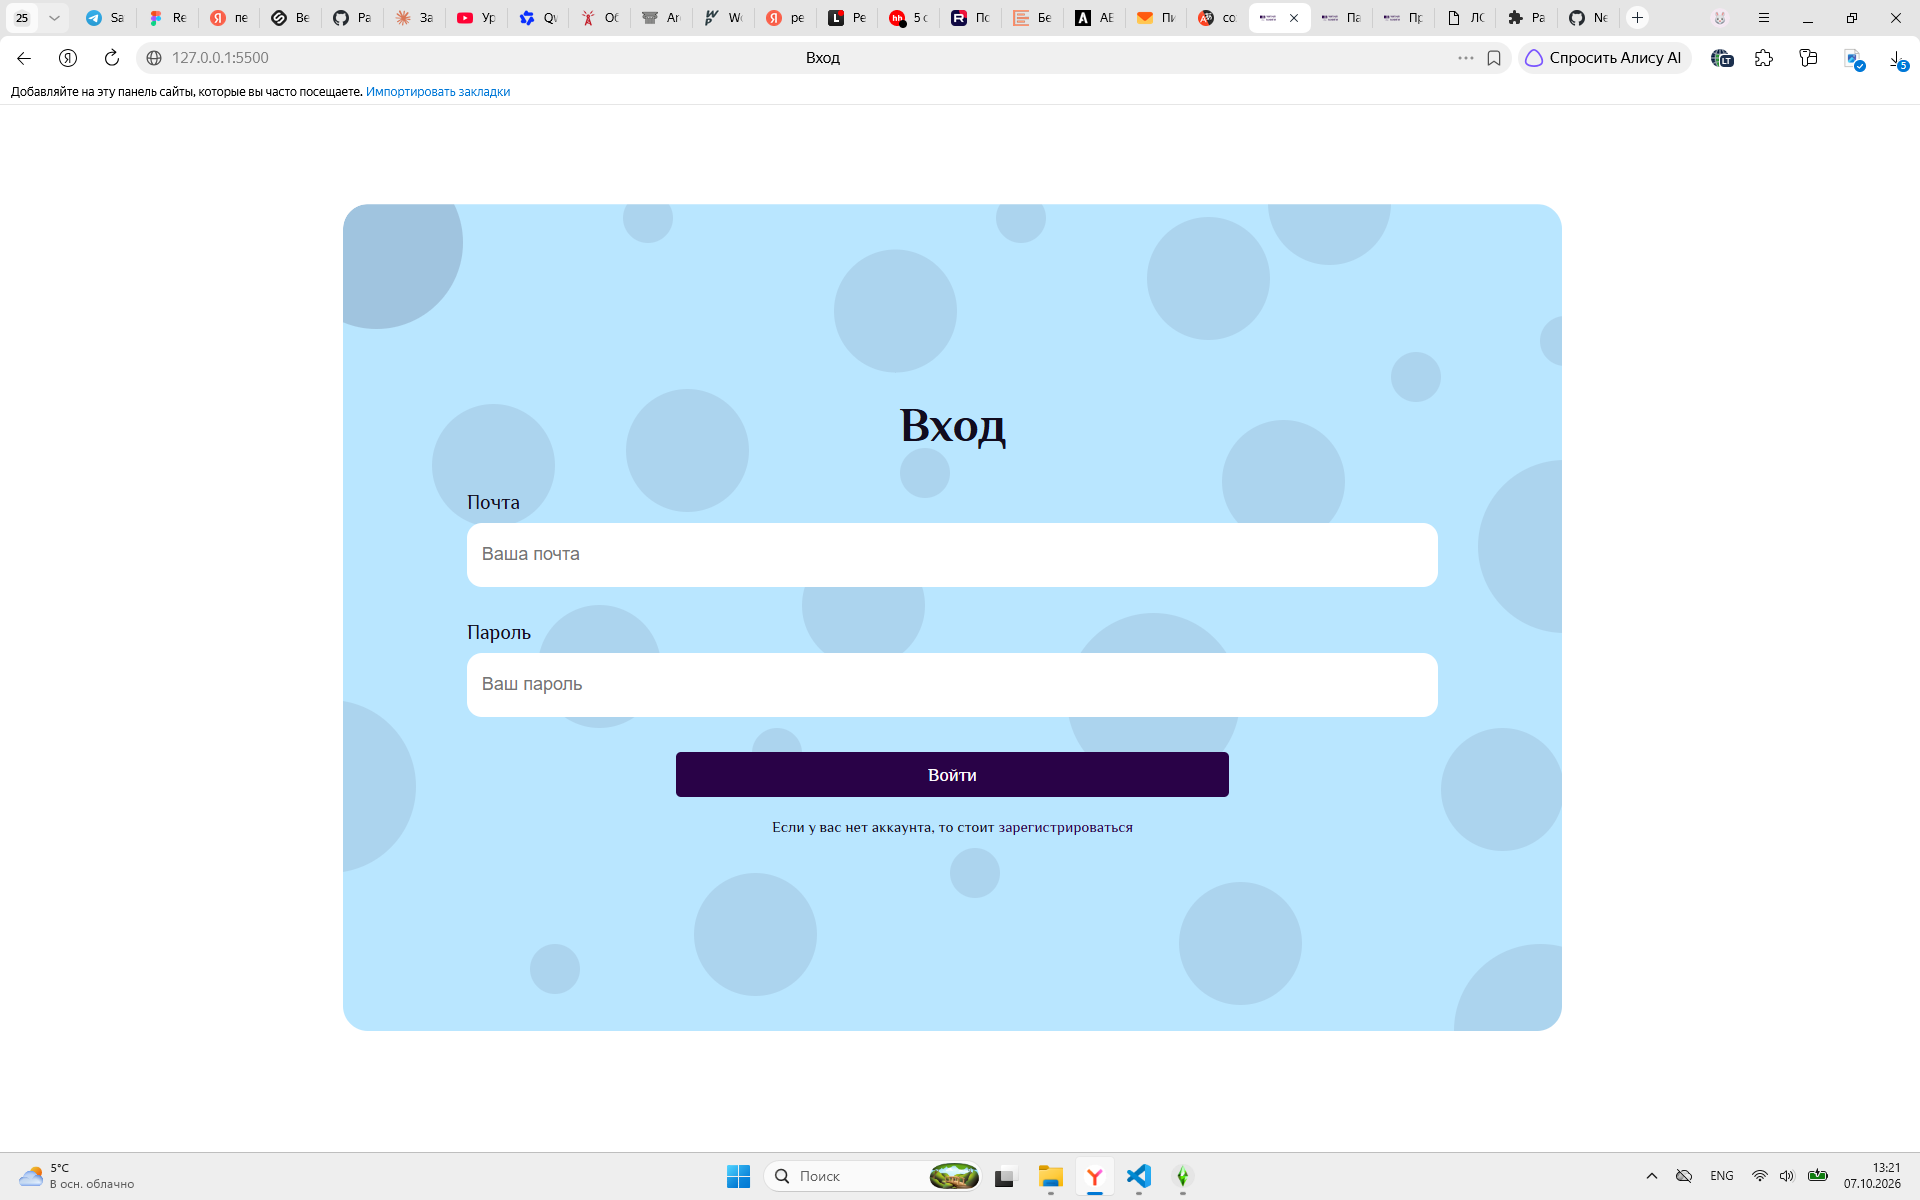
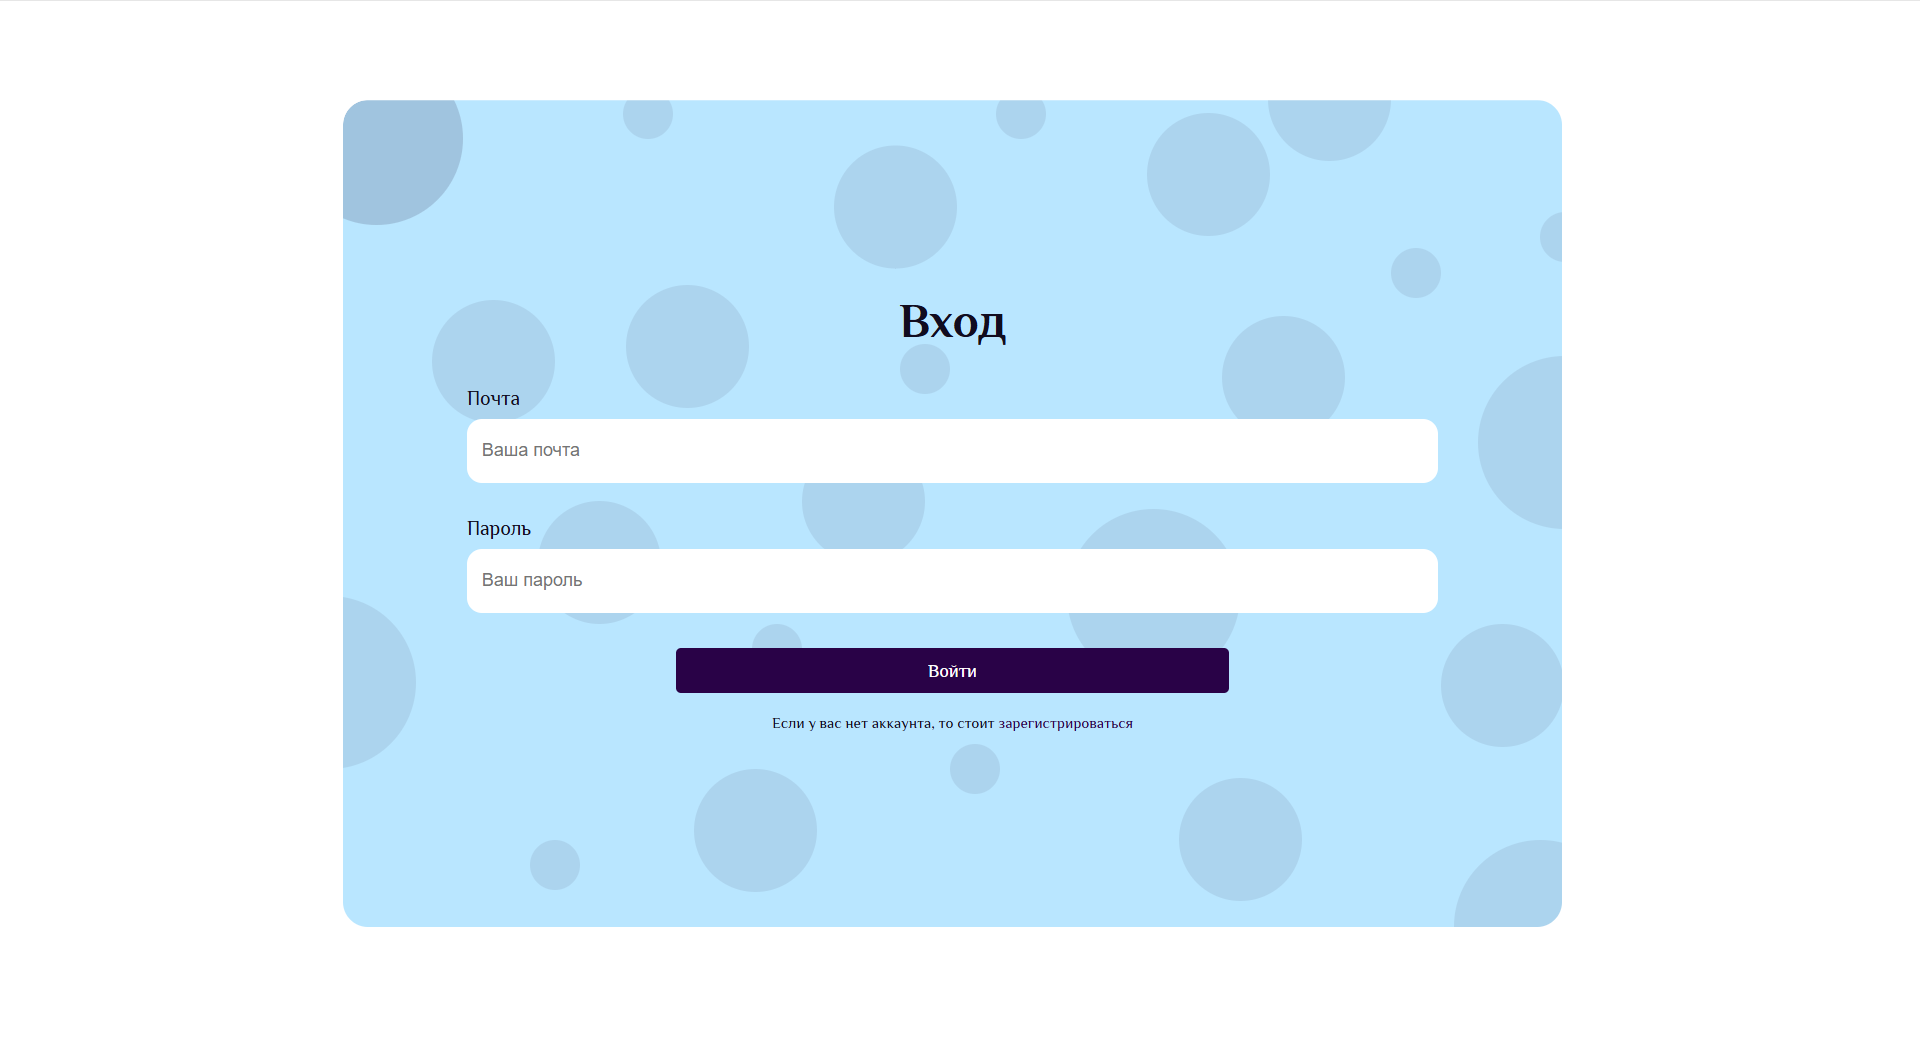
Readme.md

diff --git a/README.md b/README.md
@@ -6,7 +6,6 @@
 
 ![Главная страница](screenshot/home.png)
 
----
 
 ## Возможности
 
@@ -27,7 +26,6 @@
 - Список книг с удалением и форма добавления новой книги
 - Список акций с удалением и форма добавления акции
 
----
 
 ## Скриншоты
 
@@ -48,15 +46,15 @@
 
 ### Вход и регистрация
 
-| ![Вход](screenshot/login.png) | ![Регистрация](screenshot/register.png) |
+ ![Вход](screenshot/login.png) 
+ ![Регистрация](screenshot/register.png) 
 
 
 ### Админ-панель
 
-| ![Админка: книги](screenshot/admin-books.png) | ![Админка: акции](screenshot/admin-stocks.png) |
+![Админка: книги](screenshot/admin-books.png) 
+![Админка: акции](screenshot/admin-stocks.png) 
 
-
----
 
 ## Технологии
 
